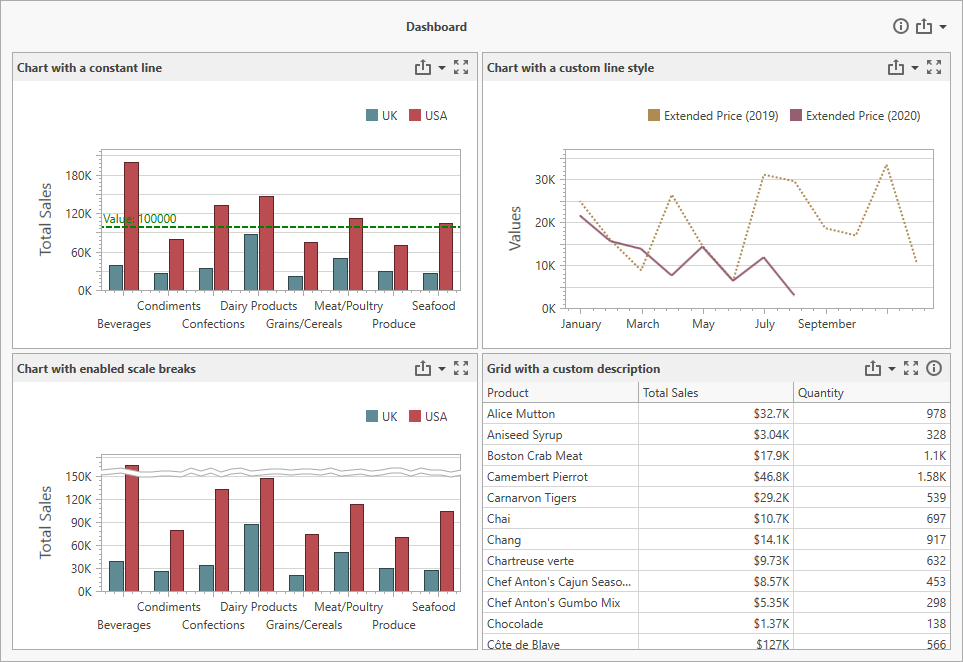
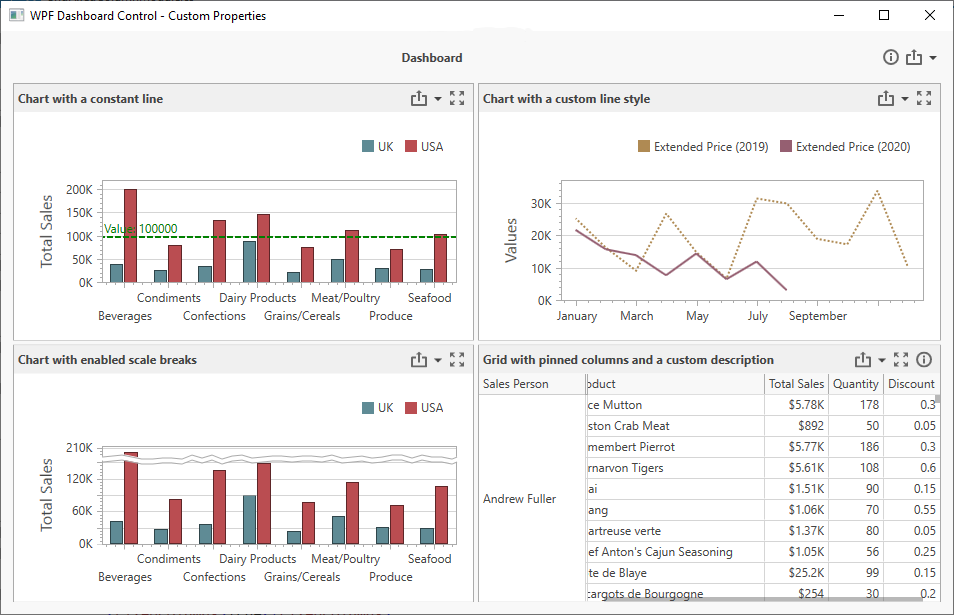
add the GridFixedColumns module

diff --git a/VB/Wpf-Dashboard-Custom-Properties/Modules/GridFixedColumnModule/GridResources.xaml b/VB/Wpf-Dashboard-Custom-Properties/Modules/GridFixedColumnModule/GridResources.xaml
@@ -1,0 +1,27 @@
+<ResourceDictionary xmlns="http://schemas.microsoft.com/winfx/2006/xaml/presentation"
+                    xmlns:x="http://schemas.microsoft.com/winfx/2006/xaml"
+                    xmlns:local="clr-namespace:Wpf_Dashboard_Custom_Properties"
+                    xmlns:dxdash="http://schemas.devexpress.com/winfx/2008/xaml/dashboard"
+                    xmlns:dxdasht="http://schemas.devexpress.com/winfx/2008/xaml/dashboard/themekeys"
+                    xmlns:dxg="http://schemas.devexpress.com/winfx/2008/xaml/grid">
+
+    <DataTemplate x:Key="gridTemplate">
+        <dxg:GridControl Style="{Binding Path=(dxdash:DashboardLayoutItem.ViewStyle), RelativeSource={RelativeSource TemplatedParent}}" >
+            <dxg:GridControl.ColumnGeneratorTemplate>
+                <DataTemplate>
+                    <dxg:GridColumn Style="{Binding Path=(dxdash:GridDashboardLayoutItem.ColumnStyle), RelativeSource={RelativeSource Self}}">
+                        <dxg:GridColumn.Fixed>
+                            <MultiBinding Converter="{local:GridFixedColumnsConverter}">
+                                <Binding RelativeSource="{RelativeSource Self}" Path="FieldName" />
+                                <Binding RelativeSource="{RelativeSource Mode=FindAncestor, AncestorType={x:Type dxg:GridControl}}" Path="DataContext" />
+                            </MultiBinding>
+                        </dxg:GridColumn.Fixed>
+                    </dxg:GridColumn>
+                </DataTemplate>
+            </dxg:GridControl.ColumnGeneratorTemplate>
+        </dxg:GridControl>
+    </DataTemplate>
+    <Style x:Key="gridStyle" TargetType="dxdash:GridDashboardLayoutItem">
+        <Setter Property="ContentTemplate" Value="{StaticResource gridTemplate}" />
+    </Style>
+</ResourceDictionary>

diff --git a/cs/Wpf-Dashboard-Custom-Properties/Modules/GridFixedColumnModule/GridResources.xaml b/cs/Wpf-Dashboard-Custom-Properties/Modules/GridFixedColumnModule/GridResources.xaml
@@ -1,0 +1,27 @@
+<ResourceDictionary xmlns="http://schemas.microsoft.com/winfx/2006/xaml/presentation"
+                    xmlns:x="http://schemas.microsoft.com/winfx/2006/xaml"
+                    xmlns:local="clr-namespace:Wpf_Dashboard_Custom_Properties"
+                    xmlns:dxdash="http://schemas.devexpress.com/winfx/2008/xaml/dashboard"
+                    xmlns:dxdasht="http://schemas.devexpress.com/winfx/2008/xaml/dashboard/themekeys"
+                    xmlns:dxg="http://schemas.devexpress.com/winfx/2008/xaml/grid">
+
+    <DataTemplate x:Key="gridTemplate">
+        <dxg:GridControl Style="{Binding Path=(dxdash:DashboardLayoutItem.ViewStyle), RelativeSource={RelativeSource TemplatedParent}}" >
+            <dxg:GridControl.ColumnGeneratorTemplate>
+                <DataTemplate>
+                    <dxg:GridColumn Style="{Binding Path=(dxdash:GridDashboardLayoutItem.ColumnStyle), RelativeSource={RelativeSource Self}}">
+                        <dxg:GridColumn.Fixed>
+                            <MultiBinding Converter="{local:GridFixedColumnsConverter}">
+                                <Binding RelativeSource="{RelativeSource Self}" Path="FieldName" />
+                                <Binding RelativeSource="{RelativeSource Mode=FindAncestor, AncestorType={x:Type dxg:GridControl}}" Path="DataContext" />
+                            </MultiBinding>
+                        </dxg:GridColumn.Fixed>
+                    </dxg:GridColumn>
+                </DataTemplate>
+            </dxg:GridControl.ColumnGeneratorTemplate>
+        </dxg:GridControl>
+    </DataTemplate>
+    <Style x:Key="gridStyle" TargetType="dxdash:GridDashboardLayoutItem">
+        <Setter Property="ContentTemplate" Value="{StaticResource gridTemplate}" />
+    </Style>
+</ResourceDictionary>

diff --git a/VB/Wpf-Dashboard-Custom-Properties/MainWindow.xaml b/VB/Wpf-Dashboard-Custom-Properties/MainWindow.xaml
@@ -12,6 +12,7 @@
         <dxdash:DashboardControl x:Name="dashboardControl">
             <dxmvvm:Interaction.Behaviors>
                 <local:ChartItemModule/>
+                <local:GridFixedColumnModule/>
                 <local:ItemDescriptionModule/>
                 <local:DashboardDescriptionModule/>
             </dxmvvm:Interaction.Behaviors>

diff --git a/cs/Wpf-Dashboard-Custom-Properties/MainWindow.xaml b/cs/Wpf-Dashboard-Custom-Properties/MainWindow.xaml
@@ -12,6 +12,7 @@
         <dxdash:DashboardControl x:Name="dashboardControl">
             <dxmvvm:Interaction.Behaviors>
                 <local:ChartItemModule/>
+                <local:GridFixedColumnModule/>
                 <local:ItemDescriptionModule/>
                 <local:DashboardDescriptionModule/>
             </dxmvvm:Interaction.Behaviors>

diff --git a/cs/Wpf-Dashboard-Custom-Properties/Modules/GridFixedColumnModule/GridFixedColumnModule.cs b/cs/Wpf-Dashboard-Custom-Properties/Modules/GridFixedColumnModule/GridFixedColumnModule.cs
@@ -1,0 +1,69 @@
+using System;
+using System.Globalization;
+using System.Linq;
+using System.Windows;
+using System.Windows.Data;
+using System.Windows.Markup;
+using DevExpress.DashboardCommon;
+using DevExpress.DashboardWpf;
+using DevExpress.Mvvm.UI.Interactivity;
+using DevExpress.Xpf.Grid;
+
+namespace Wpf_Dashboard_Custom_Properties {
+    public class GridFixedColumnModule : Behavior<DashboardControl> {
+        public const string FixedColumnsPropertyName = "FixedColumns";
+
+        protected override void OnAttached() {
+            base.OnAttached();
+            ResourceDictionary resources = (ResourceDictionary)Application.LoadComponent(new Uri("/Wpf-Dashboard-Custom-Properties;component/Modules/GridFixedColumnModule/GridResources.xaml", UriKind.Relative));
+            AssociatedObject.GridItemStyle = resources["gridStyle"] as Style;
+        }
+        protected override void OnDetaching() {
+            AssociatedObject.GridItemStyle = null;
+            base.OnDetaching();
+        }
+    }
+
+    public class GridFixedColumnsConverter : MarkupExtension, IMultiValueConverter {
+        public object Convert(object[] values, Type targetType, object parameter, CultureInfo culture) {
+            string fieldName = values[0].ToString();
+            DashboardViewModelBase viewModel = values[1] as DashboardViewModelBase;
+            if(viewModel != null) {
+                Dashboard dashboard = viewModel.DashboardControlProvider.Dashboard;
+                GridDashboardItem grid = dashboard.Items[viewModel.DashboardItemName] as GridDashboardItem;
+                DevExpress.DashboardCommon.GridColumnBase column = FindColumn(fieldName, grid.Columns);
+                if(column != null) {
+                    string customProperty = column.CustomProperties.GetValue(GridFixedColumnModule.FixedColumnsPropertyName);
+                    if(!string.IsNullOrEmpty(customProperty)) {
+                        return System.Convert.ToBoolean(column.CustomProperties.GetValue(GridFixedColumnModule.FixedColumnsPropertyName)) ? FixedStyle.Left : FixedStyle.None;
+                    }
+                }
+            }
+            return FixedStyle.None;
+        }
+        DevExpress.DashboardCommon.GridColumnBase FindColumn(string fieldName, DevExpress.DashboardCommon.GridColumnCollection columns) {
+            GridDimensionColumn dimensionColumn = columns.OfType<GridDimensionColumn>().FirstOrDefault(column => column.Dimension.UniqueId == fieldName);
+            if(dimensionColumn != null)
+                return dimensionColumn;
+            GridMeasureColumn measureColumn = columns.OfType<GridMeasureColumn>().FirstOrDefault(column => column.Measure.UniqueId == fieldName);
+            if(measureColumn != null)
+                return measureColumn;
+            GridHyperlinkColumn hyperlinkColumn = columns.OfType<GridHyperlinkColumn>().FirstOrDefault(column => column.DisplayValue.UniqueId == fieldName);
+            if(hyperlinkColumn != null)
+                return hyperlinkColumn;
+            GridDeltaColumn deltaColumn = columns.OfType<GridDeltaColumn>().FirstOrDefault(column => (column.ActualValue ?? column.TargetValue).UniqueId == fieldName);
+            if(deltaColumn != null)
+                return deltaColumn;
+            GridSparklineColumn sparklineColumn = columns.OfType<GridSparklineColumn>().FirstOrDefault(column => column.Measure.UniqueId == fieldName);
+            if(sparklineColumn != null)
+                return sparklineColumn;
+            return null;
+        }
+        public object[] ConvertBack(object value, Type[] targetTypes, object parameter, CultureInfo culture) {
+            throw new NotImplementedException();
+        }
+        public override object ProvideValue(IServiceProvider serviceProvider) {
+            return this;
+        }
+    }
+}

diff --git a/readme.md b/readme.md
@@ -22,6 +22,10 @@ This module enables you to display a dashboard description. The dashboard descri
 ### ItemDescriptionModule
 This module enables you to display a description for a dashboard item. The description is displayed when you click the info button in the dashboard item caption.
 
+### GridFixedColumnModule
+
+This module pinned columns in a Grid dashboard item.
+
 ### ChartItemModule
 
 This module contains three custom properties for a Chart dashboard item.
